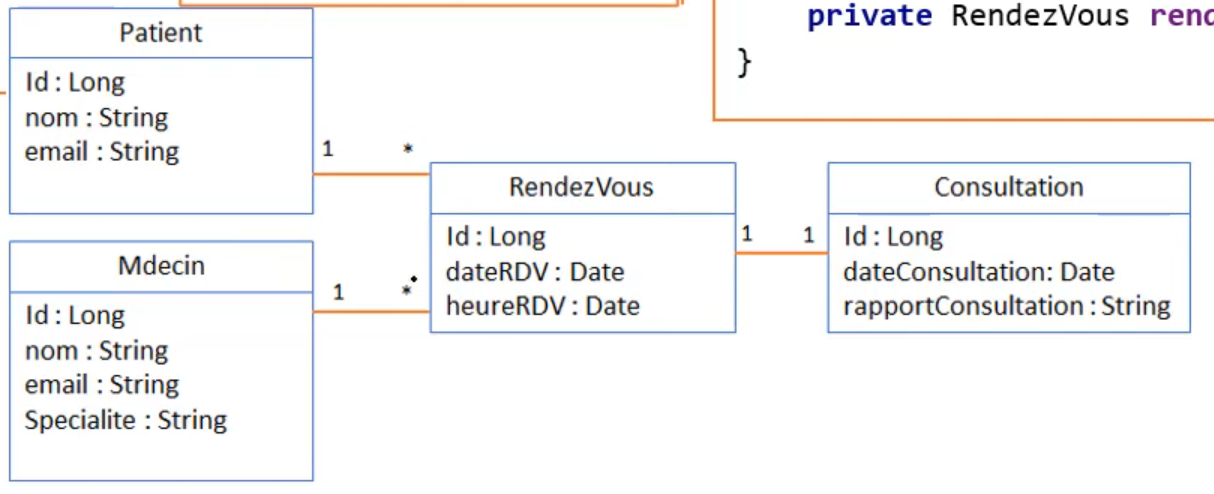
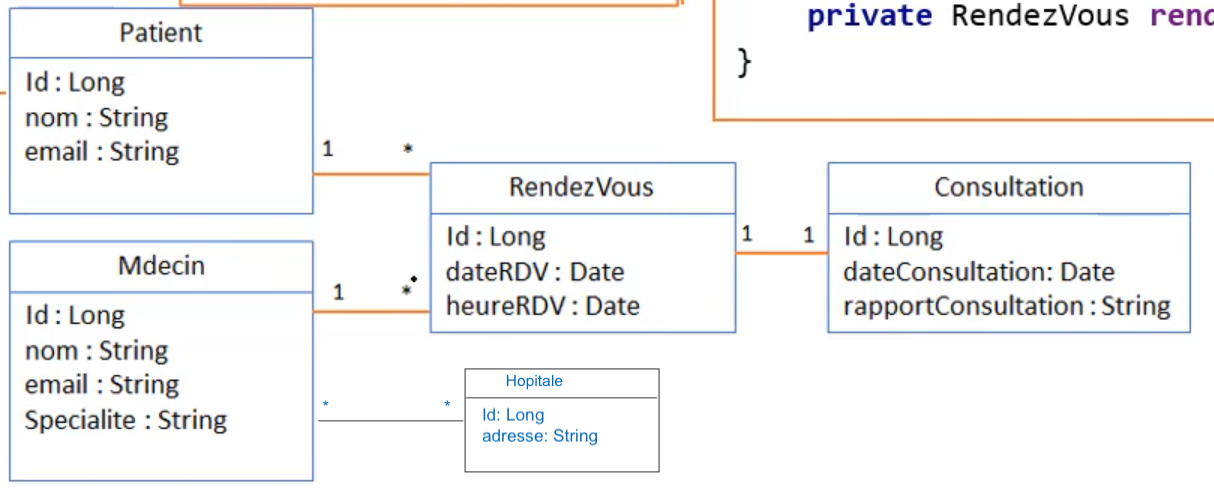
add Hopitale class to version final du diag class

Changed region(s): [[0.2743, 0.7287, 0.5486, 0.9109], [0.3962, 0.9413, 0.5486, 0.9717]]

diff --git a/usecase-orm-patient-rdv/src/main/java/me/obelmokhtar/usecaseormpatientrdv/UsecaseOrmPatientRdvApplication.java b/usecase-orm-patient-rdv/src/main/java/me/obelmokhtar/usecaseormpatientrdv/UsecaseOrmPatientRdvApplication.java
@@ -41,9 +41,9 @@ public class UsecaseOrmPatientRdvApplication implements CommandLineRunner {
         patientRepository.save(patient2);
         patientRepository.save(patient3);
 
-        Medecin medecin1=new Medecin(null, "Imane", "imane@gmail.com", "Génico", null);
-        Medecin medecin2=new Medecin(null, "Souad", "souad@gmail.com", "Dentist", null);
-        Medecin medecin3=new Medecin(null, "Samira", "samira@gmail.com", "Ophtamo", null);
+        Medecin medecin1=new Medecin(null, "Imane", "imane@gmail.com", "Génico", null, null);
+        Medecin medecin2=new Medecin(null, "Souad", "souad@gmail.com", "Dentist", null, null);
+        Medecin medecin3=new Medecin(null, "Samira", "samira@gmail.com", "Ophtamo", null, null);
 
         Consultation consultation1=new Consultation(null, new Date(), "rapport1", null);
         Consultation consultation2=new Consultation(null, new Date(), "rapport2", null);

diff --git a/usecase-orm-patient-rdv/src/main/java/me/obelmokhtar/usecaseormpatientrdv/entities/Hopitale.java b/usecase-orm-patient-rdv/src/main/java/me/obelmokhtar/usecaseormpatientrdv/entities/Hopitale.java
@@ -1,0 +1,22 @@
+package me.obelmokhtar.usecaseormpatientrdv.entities;
+
+
+import lombok.AllArgsConstructor;
+import lombok.Data;
+import lombok.NoArgsConstructor;
+
+import javax.persistence.*;
+import java.util.ArrayList;
+import java.util.Collection;
+
+@Entity
+@Data
+@NoArgsConstructor @AllArgsConstructor
+public class Hopitale {
+    @Id
+    @GeneratedValue(strategy = GenerationType.IDENTITY)
+    private Long id;
+    private String adresse;
+    @ManyToMany(mappedBy = "hopitales")
+    private Collection<Medecin> medecins=new ArrayList<>();
+}

diff --git a/usecase-orm-patient-rdv/src/main/java/me/obelmokhtar/usecaseormpatientrdv/entities/Medecin.java b/usecase-orm-patient-rdv/src/main/java/me/obelmokhtar/usecaseormpatientrdv/entities/Medecin.java
@@ -21,4 +21,6 @@ public class Medecin {
     private String specialite;
     @OneToMany(mappedBy = "medecin")
     Collection<RendezVous> rendezVousCollection= new ArrayList<>();
+    @ManyToMany(fetch = FetchType.EAGER)
+    Collection<Hopitale> hopitales=new ArrayList<>();
 }
